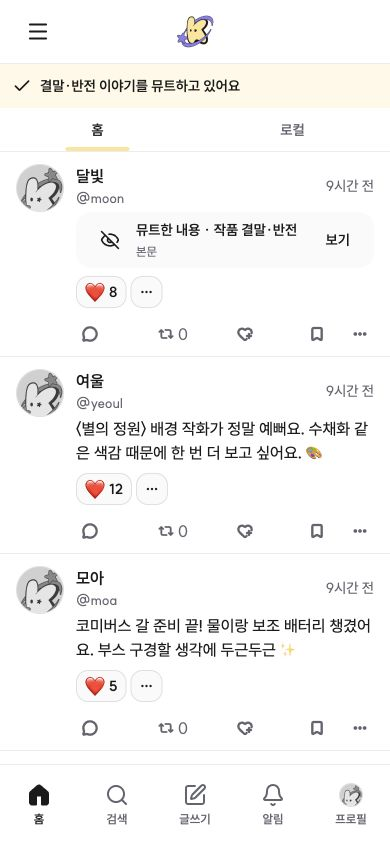
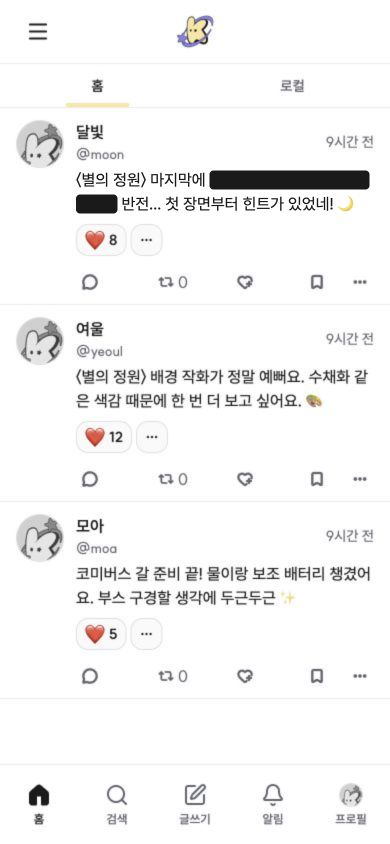
결말 구절만 가리는 영역 뮤트 소개 예시로 바꾼다

diff --git a/docs/demos/natural-language-mute/index.html b/docs/demos/natural-language-mute/index.html
@@ -120,6 +120,35 @@
       .result .screen-link {
         border: 2px solid var(--selected);
       }
+      .region-toggle summary {
+        cursor: pointer;
+        list-style: none;
+      }
+      .region-toggle summary::-webkit-details-marker {
+        display: none;
+      }
+      .region-toggle summary:focus-visible {
+        outline: 2px solid var(--focus);
+        outline-offset: -4px;
+      }
+      .screen-link .revealed {
+        display: none;
+      }
+      .region-toggle[open] .muted {
+        display: none;
+      }
+      .region-toggle[open] .revealed {
+        display: block;
+      }
+      .toggle-hint {
+        display: block;
+        padding: 12px 16px;
+        font-size: 14px;
+        line-height: 20px;
+        color: var(--ink);
+        background: var(--subtle);
+        border-top: 1px solid var(--line);
+      }
       .note {
         margin-top: 16px;
         padding: 12px 16px;
@@ -196,7 +225,7 @@
               height="844"
               alt="코스모의 입력 필드에 결말과 반전을 보고 싶지 않다는 문장이 적혀 있고, 이 조건으로 뮤트하기 버튼과 가림 조건이 표시된 예시."
           /></a>
-          <p class="note">가릴 내용: <strong>작품의 결말·반전을 직접 알려주는 글</strong></p>
+          <p class="note">가릴 내용: <strong>작품의 결말·반전이 드러나는 구절</strong></p>
         </figure>
         <figure class="scene">
           <figcaption>
@@ -221,22 +250,35 @@
           <figcaption>
             <div class="step">
               <span class="number">3</span>
-              <h2>스포일러 글만 가려져요</h2>
+              <h2>스포일러 구절만 가려져요</h2>
             </div>
             <p class="description">
-              같은 글과 순서 그대로. 첫 번째 글의 본문만 가림 표시로 바뀌었어요.
+              작품명과 감상은 그대로. 결말을 알려주는 구절만 검은 영역으로 가려져요.
             </p>
           </figcaption>
-          <a class="screen-link" href="after.jpg" aria-label="적용 후 피드 이미지 크게 보기"
-            ><img
-              src="after.jpg"
-              width="390"
-              height="844"
-              alt="같은 코스모 홈 피드에 뮤트 중 안내가 나타난다. 달빛의 첫 글 본문은 눈 가림 아이콘과 뮤트한 내용 · 작품 결말·반전, 보기 표시로 대체된다. 작화 감상과 행사 준비 글은 그대로 보인다."
-          /></a>
+          <details class="screen-link region-toggle">
+            <summary aria-label="가린 결말·반전 구절 보기 또는 다시 가리기">
+              <img
+                class="muted"
+                src="after.jpg"
+                width="390"
+                height="844"
+                alt="코스모 홈 피드. 첫 글의 작품명과 앞뒤 감상은 읽을 수 있고 결말 구절만 검은 막대로 가려져 있다. 다른 글과 반응·하단 탐색은 그대로다."
+              />
+              <img
+                class="revealed"
+                src="revealed.jpg"
+                width="390"
+                height="844"
+                alt="같은 자리의 가린 구절이 공개되었다. 정원사가 미래의 주인공이었다는 문장에 옅은 배경과 점선 밑줄을 표시한다."
+              />
+              <span class="toggle-hint muted">눌러서 가린 구절 보기</span>
+              <span class="toggle-hint revealed">다시 눌러 가리기</span>
+            </summary>
+          </details>
           <p class="note">
-            <strong>작화 감상·행사 준비 글은 그대로.</strong> 같은 작품을 말해도 결말을 밝히지 않는
-            글은 남아요.
+            <strong>문장 전체를 접지 않아요.</strong> 보고 싶지 않은 구절만 가리고 나머지 맥락은
+            읽을 수 있어요.
           </p>
         </figure>
       </div>
@@ -245,7 +287,7 @@
           기존 코스모 UI로 구성한 소개용 목업입니다. 설정과 가림 결과는 준비된 예시이며 실제 서비스
           기능·모델 판단이 아닙니다.
         </p>
-        <p>작품·인물·글은 모두 가상입니다.<br />각 화면을 누르면 크게 볼 수 있어요.</p>
+        <p>작품·인물·글은 모두 가상입니다.<br />세 번째 화면을 누르면 가린 구절을 볼 수 있어요.</p>
       </footer>
     </main>
   </body>

diff --git a/docs/demos/natural-language-mute/region-preview.html b/docs/demos/natural-language-mute/region-preview.html
@@ -1,0 +1,103 @@
+<!doctype html>
+<html lang="ko">
+  <head>
+    <meta charset="utf-8" />
+    <meta name="viewport" content="width=device-width, initial-scale=1" />
+    <title>코스모 영역 뮤트 · 소개용 본문 표현</title>
+    <style>
+      @font-face {
+        font-family: 'Pretendard Variable';
+        src: url('../../../apps/app/node_modules/pretendard/dist/web/variable/woff2/PretendardVariable.woff2')
+          format('woff2-variations');
+      }
+      :root {
+        color-scheme: light;
+        --canvas: #ffffff;
+        --ink: #1a1a1a;
+        --highlight: #fff9e6;
+        --focus: #4f46e5;
+        --selected: #ae8512;
+      }
+      * {
+        box-sizing: border-box;
+      }
+      body {
+        margin: 0;
+        background: var(--canvas);
+      }
+      .screen {
+        position: relative;
+        width: 390px;
+        height: 844px;
+      }
+      .screen > img {
+        display: block;
+        width: 390px;
+        height: 844px;
+      }
+      .excerpt {
+        position: absolute;
+        left: 76px;
+        top: 168px;
+        width: 298px;
+        margin: 0;
+        background: var(--canvas);
+        color: var(--ink);
+        font:
+          400 16px/24px 'Pretendard Variable',
+          'Apple SD Gothic Neo',
+          sans-serif;
+        overflow-wrap: anywhere;
+      }
+      summary {
+        cursor: pointer;
+        list-style: none;
+      }
+      summary::-webkit-details-marker {
+        display: none;
+      }
+      summary:focus-visible {
+        outline: 2px solid var(--focus);
+        outline-offset: 4px;
+      }
+      .region {
+        border-radius: 4px;
+        background: var(--ink);
+        color: transparent;
+        -webkit-box-decoration-break: clone;
+        box-decoration-break: clone;
+      }
+      details[open] .region {
+        background: var(--highlight);
+        color: var(--ink);
+        text-decoration: underline dotted var(--selected);
+        text-underline-offset: 3px;
+      }
+      .sr-only {
+        position: absolute;
+        width: 1px;
+        height: 1px;
+        padding: 0;
+        margin: -1px;
+        overflow: hidden;
+        clip-path: inset(50%);
+        white-space: nowrap;
+      }
+    </style>
+  </head>
+  <body>
+    <!-- 기존 홈 캡처의 본문 한 영역만 합성한 행사 목업. 앱 renderer·CW·뮤트 정책과 연결하지 않는다. -->
+    <main class="screen">
+      <img src="before.jpg" alt="코스모 홈 피드의 소개용 배경" />
+      <details class="excerpt">
+        <summary aria-label="작품 결말·반전 구절 보기 또는 다시 가리기">
+          <span aria-hidden="true"
+            >〈별의 정원〉 마지막에 <span class="region">정원사가 미래의 주인공이었다는</span> 반전…
+            첫 장면부터 힌트가 있었네! 🌙</span
+          >
+        </summary>
+        <p class="sr-only">가린 내용: 정원사가 미래의 주인공이었다는</p>
+      </details>
+    </main>
+  </body>
+</html>

diff --git a/apps/app/src/stories/screens/NaturalLanguageMute.stories.tsx b/apps/app/src/stories/screens/NaturalLanguageMute.stories.tsx
@@ -1,4 +1,4 @@
-import { ArrowLeft, Check, VolumeX } from 'lucide-react-native';
+import { ArrowLeft, VolumeX } from 'lucide-react-native';
 import { StyleSheet, Text, View } from 'react-native';
 import HomeRoute from '@/app/(tabs)/(protected)/home';
 import { PageHeader } from '@/components/PageHeader';
@@ -48,22 +48,6 @@ const posts = [
 }));
 const shell = shellQuery({ profiles: [viewer], selectedProfile: viewer });
 const beforeData = { ...shell, homeTimeline: timeline(...posts) };
-// 행사 모의 결과를 기존 CW 표시로 표현한다. 자연어 판정·제품 뮤트 정책은 연결하지 않는다.
-const afterData = {
-  ...shell,
-  homeTimeline: timeline(
-    {
-      ...posts[0],
-      content: {
-        ...posts[0].content!,
-        contentWarning: '뮤트한 내용 · 작품 결말·반전',
-        document: { ...posts[0].content!.document, summary: '뮤트한 내용 · 작품 결말·반전' },
-      },
-    },
-    ...posts.slice(1),
-  ),
-};
-
 function SettingExample() {
   const theme = useTheme();
   return (
@@ -93,10 +77,10 @@ function SettingExample() {
         >
           <VolumeX aria-hidden color={theme.foregroundPrimary} size={iconSizes[24]} />
           <Text style={[textStyles.uiLabelL, { color: theme.foregroundPrimary }]}>
-            이런 글이 가려져요
+            이런 부분이 가려져요
           </Text>
           <Text style={[textStyles.uiCopyL, { color: theme.foregroundPrimary }]}>
-            작품의 결말이나 반전을 직접 알려주는 글
+            작품의 결말이나 반전을 직접 알려주는 구절
           </Text>
         </View>
         <Text style={[textStyles.uiCopyM, { color: theme.foregroundSecondary }]}>
@@ -105,21 +89,6 @@ function SettingExample() {
       </View>
       <BottomTabBar onNavigate={() => undefined} profile={{ label: viewer.displayName }} />
     </View>
-  );
-}
-
-function AppliedExample() {
-  const theme = useTheme();
-  return (
-    <>
-      <View style={[styles.applied, { backgroundColor: theme.actionPrimarySubtle }]}>
-        <Check aria-hidden color={theme.foregroundPrimary} size={iconSizes[20]} />
-        <Text style={[textStyles.uiLabelM, { color: theme.foregroundPrimary }]}>
-          결말·반전 이야기를 뮤트하고 있어요
-        </Text>
-      </View>
-      <HomeRoute />
-    </>
   );
 }
 
@@ -148,14 +117,8 @@ export const Setting: Story = {
   render: () => <SettingExample />,
 };
 export const Before: Story = { render: () => <HomeRoute /> };
-export const After: Story = {
-  parameters: { relay: { data: afterData } },
-  render: () => <AppliedExample />,
-};
-
 const styles = StyleSheet.create({
   form: { flex: 1, gap: space[16], padding: space[16] },
   input: { minHeight: 144, ...textStyles.contentM },
   condition: { gap: space[12], padding: space[16], borderRadius: radius[12], borderWidth: 1 },
-  applied: { flexDirection: 'row', alignItems: 'center', gap: space[8], padding: space[12] },
 });

diff --git a/docs/demos/natural-language-mute/README.md b/docs/demos/natural-language-mute/README.md
@@ -1,28 +1,34 @@
 # 자연어 뮤트 소개 목업 · PROD-1160
 
-이 폴더를 통째로 행사 기기에 복사하고 `index.html`을 브라우저로 엽니다. HTML과 같은 폴더의 화면 JPG 3개와 로고 PNG 1개가 필요하며, 서버·빌드·인터넷 연결은 필요하지 않습니다. 화면 이미지만 발표 자료에 넣어도 됩니다.
+이 폴더를 통째로 행사 기기에 복사하고 `index.html`을 브라우저로 엽니다. 화면 JPG 4개와 로고 PNG 1개가 필요하며 서버·빌드·인터넷 연결은 필요하지 않습니다. 이미지만 발표 자료에 넣어도 됩니다.
 
-| 장면      | 파일          | 설명                                                  |
-| --------- | ------------- | ----------------------------------------------------- |
-| 문장 설정 | `setting.jpg` | 자연어 문장 입력과 가림 조건                          |
-| 적용 전   | `before.jpg`  | 결말 공개·작화 감상·행사 준비 글이 있는 홈 피드       |
-| 적용 후   | `after.jpg`   | 첫 글의 본문만 가리고 나머지 두 글을 유지한 같은 피드 |
+| 장면      | 파일           | 설명                                                            |
+| --------- | -------------- | --------------------------------------------------------------- |
+| 문장 설정 | `setting.jpg`  | 자연어 문장과 가릴 구절의 조건                                  |
+| 적용 전   | `before.jpg`   | 결말 공개·작화 감상·행사 준비 글이 있는 기존 홈 피드            |
+| 영역 뮤트 | `after.jpg`    | 첫 글에서 결말을 밝히는 구절만 검은 영역으로 가림               |
+| 구절 공개 | `revealed.jpg` | 같은 자리에서 구절을 보여주고 옅은 강조·점선 밑줄로 범위를 표시 |
 
-HTML에서 화면을 누르면 이미지 원본을 크게 볼 수 있습니다. 이미지의 내용은 본문 설명과 대체 텍스트로도 제공합니다.
+설정·적용 전 이미지는 누르면 크게 열립니다. 세 번째 화면은 누르거나 키보드 Enter/Space로 가린 구절을 공개하고 다시 가릴 수 있습니다. 원문 전체를 접지 않으며 앞뒤 맥락, 글 높이, 작성자·반응·하단 탐색을 유지합니다.
 
-## 기존 코스모 UI 사용
+## UI와 참고 자료
 
-이미지는 `apps/app/src/stories/screens/NaturalLanguageMute.stories.tsx`의 `Setting`, `Before`, `After`를 390×844에서 렌더링한 화면입니다.
+- 기존 `UniversalShell`·`HomeRoute`를 Relay fixture로 렌더링한 피드 캡처를 사용합니다. 설정 예시는 공용 `PageHeader`·`TextField`·`Button`·`BottomTabBar`와 theme token을 합성합니다.
+- 제작용 Storybook은 `apps/app/src/stories/screens/NaturalLanguageMute.stories.tsx`의 `Setting`, `Before`입니다.
+- 영역 가림·공개 원본은 `region-preview.html`입니다. 기존 `before.jpg`의 본문 한 영역만 HTML로 합성해 390×844에서 캡처했습니다. 여기의 위치 수치는 해당 캡처에 한정합니다. 앱 UI가 바뀌면 캡처와 본문 위치를 함께 확인합니다. 실제 Production renderer에 영역 가림 API를 추가하지 않습니다.
+- 사용자가 첨부한 검은 가림·공개 강조 예시와 [Fusetter의 부분 가림 설명](https://fusetter.com/helpcenter)을 참고했습니다. Fusetter는 작성자가 내용을 가리고 공개 범위를 정하는 서비스입니다. 이번 자료에서는 시각 표현만 참고하며, 읽는 사람의 자연어 조건에 맞는 구절을 미리 정한 예시로 보여줍니다.
+- 이미지에는 SUIT/Pretendard가 포함되어 행사 기기 폰트 설치에 의존하지 않습니다. `brand-mark.png`는 기존 앱의 Light 로고 자산입니다.
 
-- 피드: 실제 `UniversalShell`과 `HomeRoute`를 Relay fixture로 렌더링합니다. 기존 로고, 홈·로컬 탭, 게시글, 반응, 하단 탐색을 그대로 사용합니다.
-- 문장 설정: 기존 `PageHeader`, `TextField`, `Button`, `BottomTabBar`와 theme token을 합성한 소개용 화면입니다.
-- 가림: 준비된 모의 결과를 기존 `PostContentWarning`으로 표현합니다. 작성자가 지정하는 실제 CW와 자연어 뮤트의 제품 정책을 연결하거나 바꾸지 않습니다.
-- 폰트: Storybook에서 npm 패키지의 SUIT/Pretendard를 로드해 캡처했으므로 행사 기기에 폰트를 설치할 필요가 없습니다. `brand-mark.png`는 기존 앱의 Light 로고 자산입니다.
+## 이미지 다시 만들기
 
-이미지를 다시 만들 때는 `pnpm --filter @kosmo/app storybook:dev`로 실행하고 `KOSMO/Screens/Natural Language Mute Showcase`의 세 장면을 Light·390×844에서 엽니다. 로고·반응·폰트 로딩이 끝난 화면을 캡처합니다. HTML 설명과 이미지의 글·순서를 함께 맞춥니다.
+1. `pnpm --filter @kosmo/app storybook:dev`에서 Light·390×844의 Setting/Before를 열고 로고·폰트·반응 로딩을 확인해 캡처합니다.
+2. 영역 캡처에는 별도 임시 폴더에 `region-preview.html`, `before.jpg`, 설치된 `pretendard` 패키지의 `PretendardVariable.woff2`만 복사합니다. 임시 HTML의 font URL을 같은 폴더의 파일로 바꿉니다. 폰트 파일은 저장소에 복제하지 않습니다.
+3. 해당 임시 폴더만 loopback HTTP로 표시해 닫힌 상태를 `after.jpg`, 열린 상태를 `revealed.jpg`로 캡처합니다. HTML 설명·대체 텍스트와 이미지의 구절·순서를 함께 맞춥니다.
 
-## 소개 범위와 확인
+최종 소개 HTML은 캡처된 이미지를 사용하므로 위 개발용 폰트 경로나 Storybook에 의존하지 않습니다.
 
-작품·인물·글과 가림 결과는 모두 가상입니다. 입력·적용·모델 추론을 수행하는 체험 앱은 아니며 실제 앱의 설정·경로·뮤트 정책은 변경하지 않습니다.
+## 범위와 확인
 
-2026-10-19 Chromium 기반 내장 브라우저에서 세 장면을 직접 확인했습니다. HTML은 1440×1080의 나란한 배치와 390×844의 세로 배치를 직접 확인했고 가로 넘침이 없었습니다. 자동 검증은 GitHub CI의 `Lint`와 `Test (App)`에 인계합니다. 실제 행사 기기·다른 브라우저·인쇄·Native·모델 품질은 검증하지 않았습니다.
+작품·인물·글과 가림 영역은 준비한 예시입니다. 실제 모델의 영역 선택·추론·정확도, 실제 앱의 설정·경로·뮤트 정책이나 CW 동작은 변경하지 않습니다.
+
+2026-10-19 Chromium 기반 내장 브라우저에서 원본 피드와 390×844의 영역 가림·공개를 직접 확인했습니다. 최종 HTML은 1440×1080·390×844에서 이미지 로딩과 가로 넘침 없음을 확인했고, 포인터 공개·Enter로 다시 가리기 및 expanded 상태 변화를 관찰했습니다. 자동 검증은 GitHub CI `Lint`와 `Test (App)`에 인계합니다. 실제 행사 기기·다른 브라우저·인쇄·screen reader·Native·모델 품질은 미검증입니다.

diff --git a/openspec/changes/add-natural-language-mute-showcase/design.md b/openspec/changes/add-natural-language-mute-showcase/design.md
@@ -15,9 +15,9 @@
 
 `docs/demos/natural-language-mute/index.html`과 같은 폴더의 화면 이미지 3장이 전달물이다. 기존 `UniversalShell`·`HomeRoute`의 실제 홈 피드를 Relay fixture로 렌더링한다. 설정 예시는 기존 `PageHeader`·`TextField`·`Button`·`BottomTabBar`와 theme token을 합성한다. 제작 원본은 `apps/app/src/stories/screens/NaturalLanguageMute.stories.tsx`다.
 
-장면은 문장 설정→적용 전 홈 피드→적용 후 홈 피드다. 동일한 세 글과 순서를 유지하고, 결말 공개 글의 본문만 기존 `PostContentWarning`으로 가린 모의 결과를 보여준다. 작화 감상과 행사 준비 글은 유지한다. 실제 CW·자연어 뮤트 정책을 연결하거나 실제 서비스 경로를 추가하지 않는다.
+장면은 문장 설정→적용 전 홈 피드→적용 후 홈 피드다. 동일한 세 글과 순서를 유지하고, 결말 공개 글의 핵심 구절만 검은 영역으로 가리고, 누르면 같은 자리에서 구절을 공개하는 모의 결과를 보여준다. 작성자·반응과 앞뒤 문장은 유지한다. 영역 원본은 소개용 `region-preview.html`이며 앱 renderer를 변경하지 않는다. 작화 감상과 행사 준비 글은 유지한다. 실제 CW·자연어 뮤트 정책을 연결하거나 실제 서비스 경로를 추가하지 않는다.
 
-화면은 SUIT/Pretendard가 로드된 Light·390×844 Web Storybook 캡처다. HTML은 넓은 화면에서 세 장면을 나란히 보여주고 작은 화면에서 세로로 배치한다. 클릭하면 각 이미지 원본을 크게 볼 수 있다. 행사 기기에는 폴더 전체를 복사한다.
+화면은 SUIT/Pretendard가 로드된 Light·390×844 Web Storybook 캡처와 본문 영역 합성이다. HTML은 넓은 화면에서 세 장면을 나란히 보여주고 작은 화면에서 세로로 배치한다. 설정·적용 전 이미지는 크게 열 수 있고, 적용 후 화면은 가림·공개를 전환한다. 행사 기기에는 폴더 전체를 복사한다.
 
 ## Alternatives and Traps
 

diff --git a/openspec/changes/add-natural-language-mute-showcase/tasks.md b/openspec/changes/add-natural-language-mute-showcase/tasks.md
@@ -9,8 +9,8 @@
 
 ## Verification Evidence
 
-- 산출물: `docs/demos/natural-language-mute/index.html`, 같은 폴더의 `setting.jpg`·`before.jpg`·`after.jpg`·`brand-mark.png`와 `README.md`. 제작 원본은 `apps/app/src/stories/screens/NaturalLanguageMute.stories.tsx`.
-- 시각 확인: 2026-10-19 기존 앱 컴포넌트의 Web Storybook을 Light·390×844에서 직접 관찰했다. 설정 예시, 원래 홈 피드, 첫 글만 가린 홈 피드를 캡처했다. 최종 HTML은 1440×1080과 390×844에서 확인했으며 가로 넘침과 누락 이미지가 없었다. 로고·탭·반응·하단 탐색과 유지되는 두 글을 확인했다.
+- 산출물: `docs/demos/natural-language-mute/index.html`, 같은 폴더의 `setting.jpg`·`before.jpg`·`after.jpg`·`revealed.jpg`·`brand-mark.png`와 `README.md`. 제작 원본은 `apps/app/src/stories/screens/NaturalLanguageMute.stories.tsx`.
+- 시각 확인: 2026-10-19 기존 앱 컴포넌트의 Web Storybook을 Light·390×844에서 직접 관찰했다. 설정 예시, 원래 홈 피드, 첫 글의 구절만 가린 홈 피드를 캡처했다. 최종 HTML은 1440×1080과 390×844에서 확인했으며 가로 넘침과 누락 이미지가 없었다. 로고·탭·반응·하단 탐색과 유지되는 두 글을 확인했다. 영역 뮤트 변경 뒤 본문 맥락 유지, 포인터로 구절 공개와 Enter로 다시 가리기, expanded 상태를 직접 확인했다.
 - 포맷 적용: 기존 `pnpm exec prettier --write`로 원본을 정리했다. 자동 검증은 GitHub CI `Lint`에 인계하며 결과는 pending이다. 로컬 테스트는 실행하지 않았다.
 - 한계: 폰트 미설치 시 시스템 한글 sans-serif를 사용한다. 실제 행사 기기, 다른 브라우저, 인쇄는 미검증이다. 화면 이미지는 SUIT/Pretendard를 포함해 캡처되어 행사 기기의 폰트 설치에 의존하지 않는다. 실제 모델·앱·Native 검증은 범위 밖이다.
 
